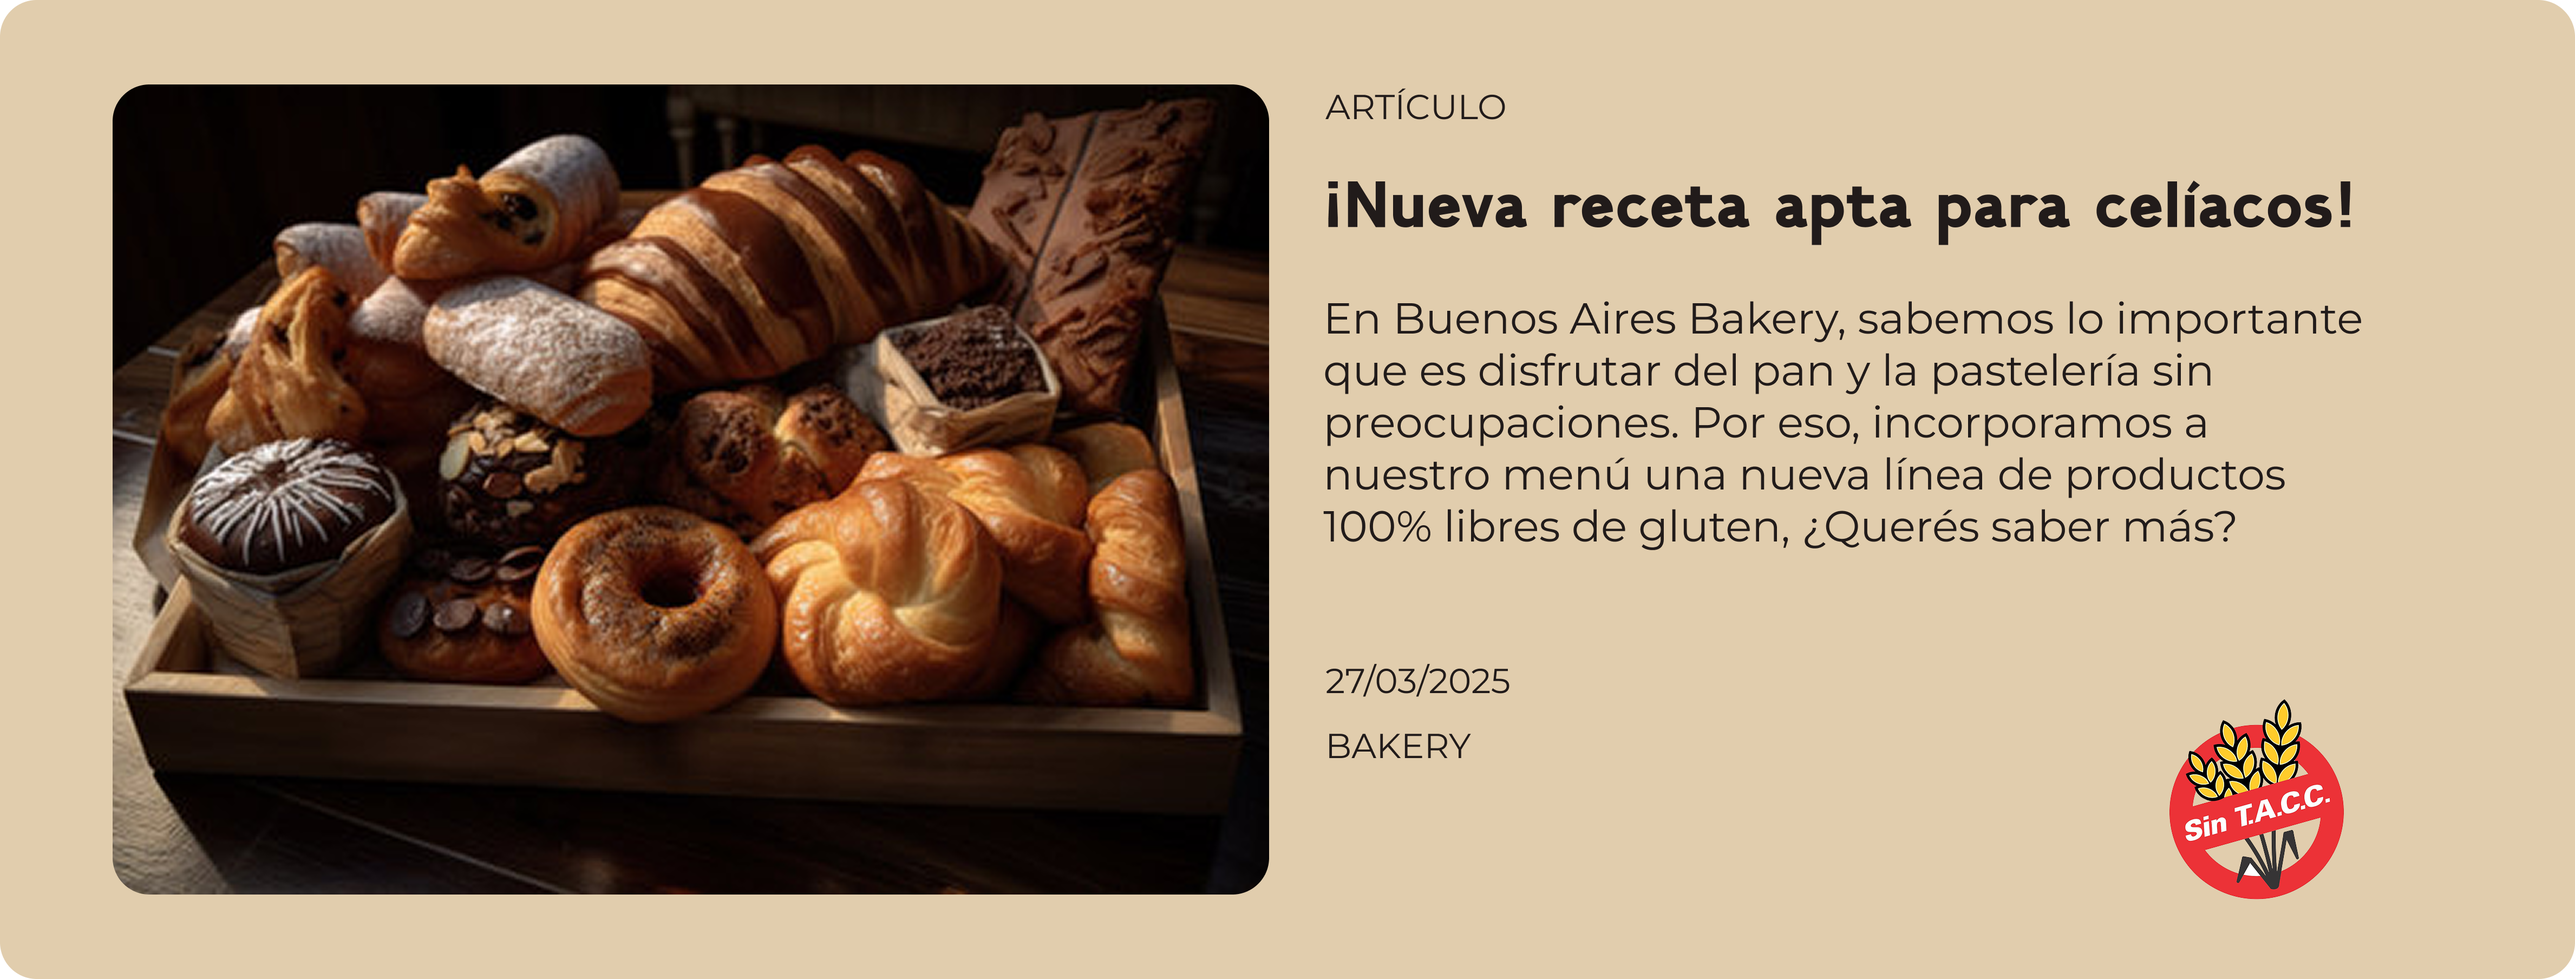
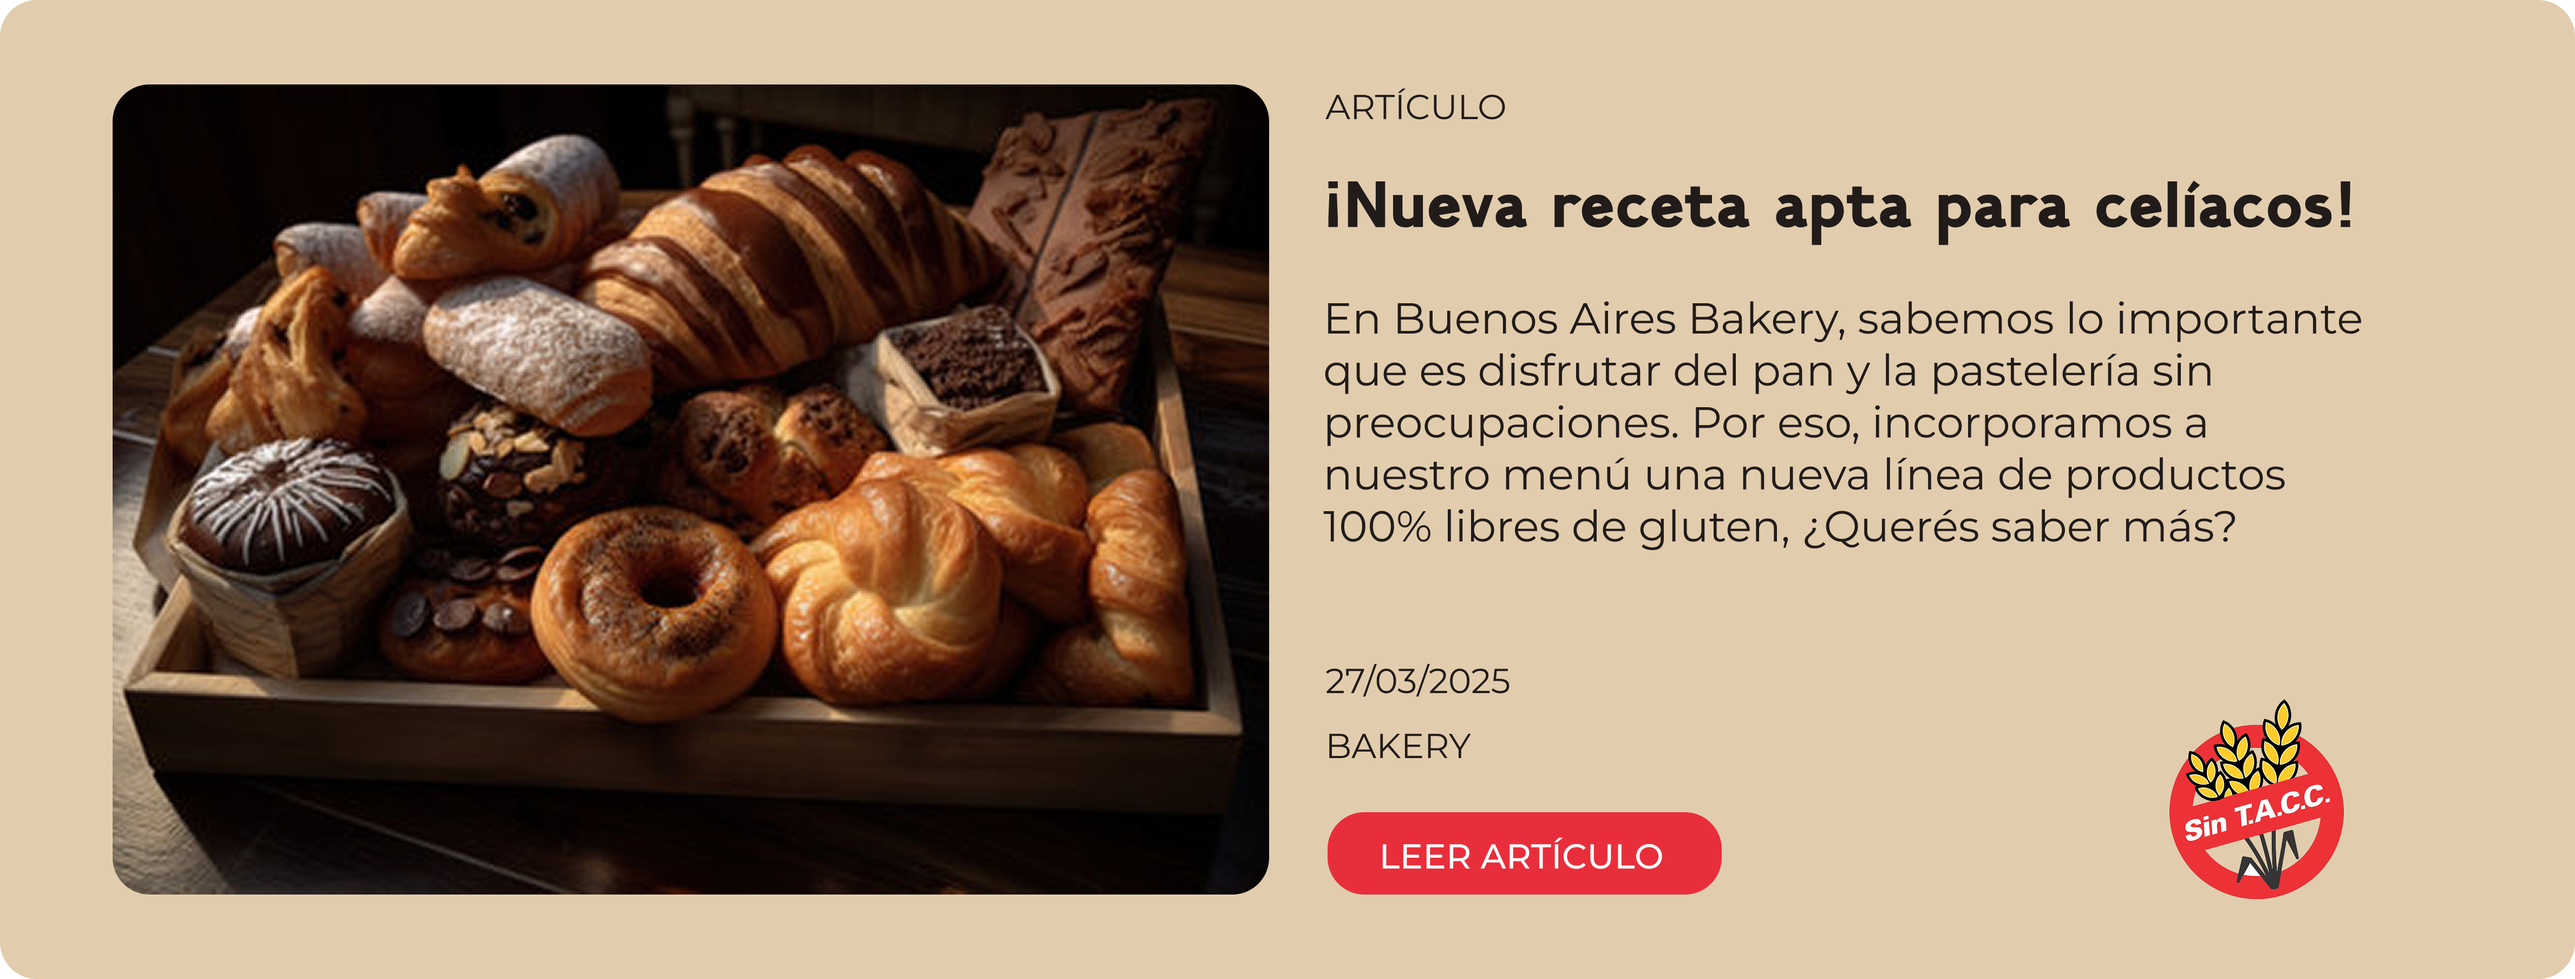
cambios de novedades

Changed region(s): [[0.4979, 0.8053, 0.6846, 0.9292]]

diff --git a/src/components/Novedades.css b/src/components/Novedades.css
@@ -1,13 +1,4 @@
 @import url('https://fonts.googleapis.com/css2?family=Abhaya+Libre:wght@800&display=swap');
-
-.card-card {
-    display: grid;
-    grid-template-columns: repeat(2, 1fr);
-    gap: 2rem;
-    padding: 2rem;
-    justify-items: center;
-}
-
 .novedades {
     font-family: 'Abhaya Libre', serif;
     font-weight: 800;
@@ -15,19 +6,28 @@
     color: #211B1A;
     text-align: center;
     font-size: 45px;
+    margin-top: 15px;
+}
+.card-card {
+    display: flex;
+    flex-wrap: wrap;
+    justify-content: center; 
+    gap: 7rem; 
+    padding: 2rem;
 }
 
 .card-item {
     background-color: #fff;
     border-radius: 10px;
     overflow: hidden;
-    width: 100%;
-    max-width: 400px;
+    width: calc(50% - 0.5rem); 
+    max-width: 550px;
     display: flex;
     flex-direction: column;
     align-items: center;
     text-decoration: none;
 }
+
 
 .card-item img {
     width: 100%;
@@ -45,7 +45,7 @@
     color: #333;
 }
 
-/* Sección de imagen + botón */
+
 .image-8 {
     display: flex;
     flex-direction: column;
@@ -54,30 +54,16 @@
 }
 
 .image-8 img {
-    width: 90%;
+    width: 70%;
     border-radius: 20px;
     margin-bottom: 2rem;
 }
 
-.image-8 button {
-    padding: 0.8rem 2rem;
-    font-size: 1rem;
-    background-color: #E92E3B;
-    color: white;
-    border: none;
-    border-radius: 25px;
-    cursor: pointer;
-    transition: background-color 0.3s;
-}
-
-.image-8 button:hover {
-    background-color: #b33232;
-}
 
 /* Responsive */
 
 /* 1024px - 1279px */
-@media (min-width: 1024px) and (max-width: 1279px) {
+@media  (max-width: 1200px) {
     .card-card {
         grid-template-columns: repeat(2, 1fr);
         gap: 1.5rem;
@@ -96,82 +82,17 @@
         font-size: 0.95rem;
     }
 
-    .image-8 button {
-        margin-top: 6.5rem;
-    }
 }
 
 /* 1280px - 1439px */
-@media (min-width: 1280px) and (max-width: 1439px) {
-    .card-card {
-        grid-template-columns: repeat(2, 1fr);
-        gap: 2rem;
-        padding: 2rem;
-    }
-
+@media (min-width: 1201px)  {
     .novedades {
-        font-size: 42px;
-    }
-
-    .card-item {
-        max-width: 370px;
+        margin-top: 40px;
+        font-size: 60px;
     }
 
     .card-item p {
         font-size: 1rem;
     }
 
-    .image-8 button {
-        margin-top: 14rem;
-    }
-}
-
-/* 1440px - 1919px */
-@media (min-width: 1440px) and (max-width: 1919px) {
-    .card-card {
-        grid-template-columns: repeat(2, 1fr);
-        gap: 2.5rem;
-        padding: 3rem;
-    }
-
-    .novedades {
-        font-size: 45px;
-    }
-
-    .card-item {
-        max-width: 400px;
-    }
-
-    .card-item p {
-        font-size: 1.05rem;
-    }
-
-    .image-8 button {
-        margin-top: 6rem;
-    }
-}
-
-/* 1440px - 1919px */
-@media (min-width: 1920px) and (max-width: 2000px) {
-    .card-card {
-        grid-template-columns: repeat(2, 1fr);
-        gap: 2.5rem;
-        padding: 3rem;
-    }
-
-    .novedades {
-        font-size: 45px;
-    }
-
-    .card-item {
-        max-width: 400px;
-    }
-
-    .card-item p {
-        font-size: 1.05rem;
-    }
-
-    .image-8 button {
-        margin-top: -2rem;
-    }
 }

diff --git a/src/components/Celiacos.jsx b/src/components/Celiacos.jsx
@@ -20,10 +20,45 @@ function Celiacos() {
 
     return (
         <section className="celiacos-section">
-            <div className="celiacos-fondo"></div>
+            <div className="image-1">
+                <img src="/images/celiacos-banner.png" alt="" />
+            </div>
             <div className="celiacos-content">
-                <div className="celiacos-card">
-                    <img src="\images\testo-celiacos.png" alt="" />
+                <div class="celiacos-card">
+                    <p class="celiacosp">
+                        Nuestra nueva receta garantiza sabor y textura sin comprometer la seguridad alimentaria.<br />
+                        Utilizamos ingredientes cuidadosamente seleccionados, como:
+                    </p>
+
+                    <ul class="ingredient-list">
+                        <li>Harina de arroz</li>
+                        <li>Fécula de maíz</li>
+                        <li>Almidón de mandioca</li>
+                        <li>Harina de almendras</li>
+                        <li>Goma xántica (para mejorar la elasticidad)</li>
+                        <li>Aceite vegetal y huevos frescos</li>
+                    </ul>
+
+
+                    <p class="celiacosp">
+                        El resultado es un pan esponjoso, liviano y delicioso, ideal para acompañar cualquier comida.<br />
+                        Además, pronto sumaremos más opciones dulces y saladas para que todos puedan disfrutar sin restricciones.
+                    </p>
+
+                    <p class="celiacosp">
+                        ¡Te invitamos a probar nuestra nueva propuesta libre de gluten y seguir compartiendo el mejor pan, ahora para todos!
+                    </p>
+
+                    <p class="celiacosp">📍 Visitanos en nuestro local o hacé tu pedido online.</p>
+                </div>
+                <div className="celiacos-image-container">
+                                        <div className="celiacos-triangle">
+                        <img src="/images/triangulo-celiacos.png" alt="" />
+                    </div>
+                    <div className="imagen-celiacos">
+                        <img src="/images/celiacos-image.png" alt="Imagen de celiacos" className="celiacos-image" />
+                    </div>
+
                 </div>
             </div>
             <Footer />

diff --git a/src/components/Celiacos.css b/src/components/Celiacos.css
@@ -6,16 +6,11 @@
     width: 100%;
     background-color: #F4EDE5;
 }
-
-.celiacos-fondo {
-    background-image: url('/images/celiacos.png');
-    background-size: cover;
-    background-position: center;
-    width: 100%;
-    height: 700px;
+.celiacos-content{
+    font-family: 'Montserrat', sans-serif;
+    font-size: 25px;
+    margin-top: 40px;
 }
-
-
 .celiacos-content h2 {
     font-family: 'Abhaya Libre', serif;
     font-weight: 800;
@@ -27,8 +22,8 @@
 
 .celiacos-content p {
     font-family: 'Montserrat', sans-serif;
-    font-size: 16px;
-    color: #444;
+        font-size: 25px;
+    color: #000000;
     line-height: 1.6;
 }
 
@@ -39,17 +34,50 @@
 }
 
 .celiacos-card {
-    margin-top: 150px;
-    margin-bottom: 40px;
+    text-align: left;
+    max-width: 1250px;
+    margin: 0 auto;
+    padding: 2rem;
 }
 
-.celiacos-card p {
-    text-align: center;
-    font-size: 15px;
-    color: #444;
-    margin-bottom: 15px;
+.celiacosp {
+    margin-bottom: 1.5rem;
+    line-height: 1.6;
 }
 
+.celiacos-card ul {
+    margin-left: 1.2rem;
+    margin-bottom: 1.5rem;
+}
+
+.ingredient-list {
+    list-style: none;
+    padding-left: 0;
+}
+
+.ingredient-list li::before {
+    content: '✅';
+    margin-right: 0.5rem;
+}
+.imagen-celiacos{
+    display: flex;
+    justify-content: flex-end
+}
+.imagen-celiacos img{
+    width: 150px;
+}
+.celiacos-triangle{
+    display: flex;
+}
+.celiacos-triangle img{
+    width: 30%;
+}
+.celiacos-image-container{
+    display: flex;
+    justify-content: center;
+    align-items: center;
+    margin-top: 20px;
+}
 @font-face {
     font-family: 'Calvin Heavy';
     src: url('./fonts/Calvin-Heavy.ttf') format('truetype');

diff --git a/src/components/sucursales.jsx b/src/components/sucursales.jsx
@@ -15,6 +15,7 @@ function Sucursales(params) {
         <>
             {showLoader && <Loader />}
             <div>
+            <div>
                 <div className="image-5">
                     <img src="\images\SucursalesBakery.png" alt="imagen pricipal de sucursales" />
                 </div>
@@ -25,9 +26,10 @@ function Sucursales(params) {
                     <img src="\images\mapa.png" alt="" />
                 </div>
                 <div className="image-1">
-                    <img src="\images\NuestroProceso.png" alt="" />
+                    <img src="\images\NuestroProceso.png" className="proceso" alt="" />
                 </div>
                 <Footer />
+            </div>
             </div>
         </>
     );

diff --git a/src/components/Novedades.jsx b/src/components/Novedades.jsx
@@ -43,9 +43,8 @@ function Novedades(params) {
                     </Link>
                 </div>
                 <div className="image-8">
-                    <img src="./images/Group 883.png" alt="Imagen artículo" />
                     <Link to="/celiacos">
-                        <Button>LEER ARTÍCULO</Button>
+                    <img src="./images/Group 883.png" alt="Imagen artículo" />
                     </Link>
                 </div>
                 <Footer />

diff --git a/src/components/sucursales.css b/src/components/sucursales.css
@@ -12,3 +12,6 @@ width: 100%;
     margin-top: 100px;
     margin-bottom: 100px;
 }
+.proceso{
+    margin-bottom: -7px;
+}
